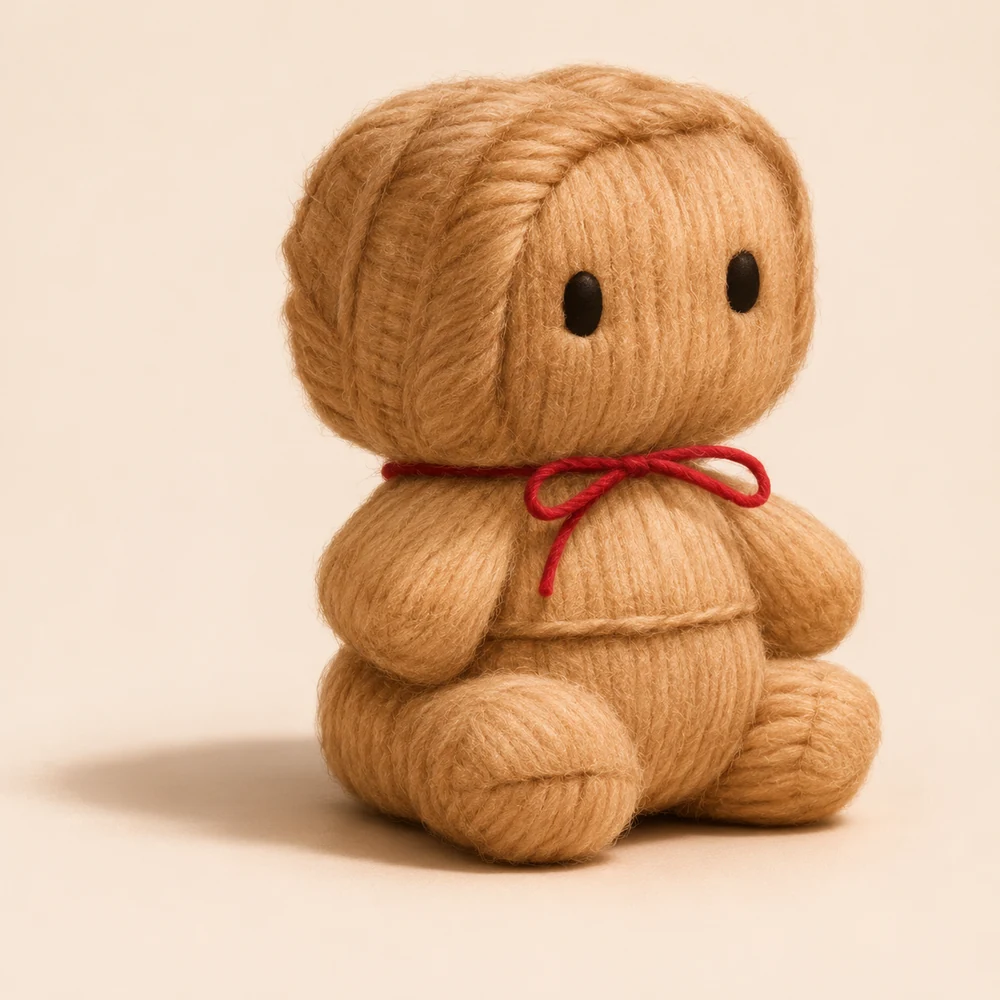
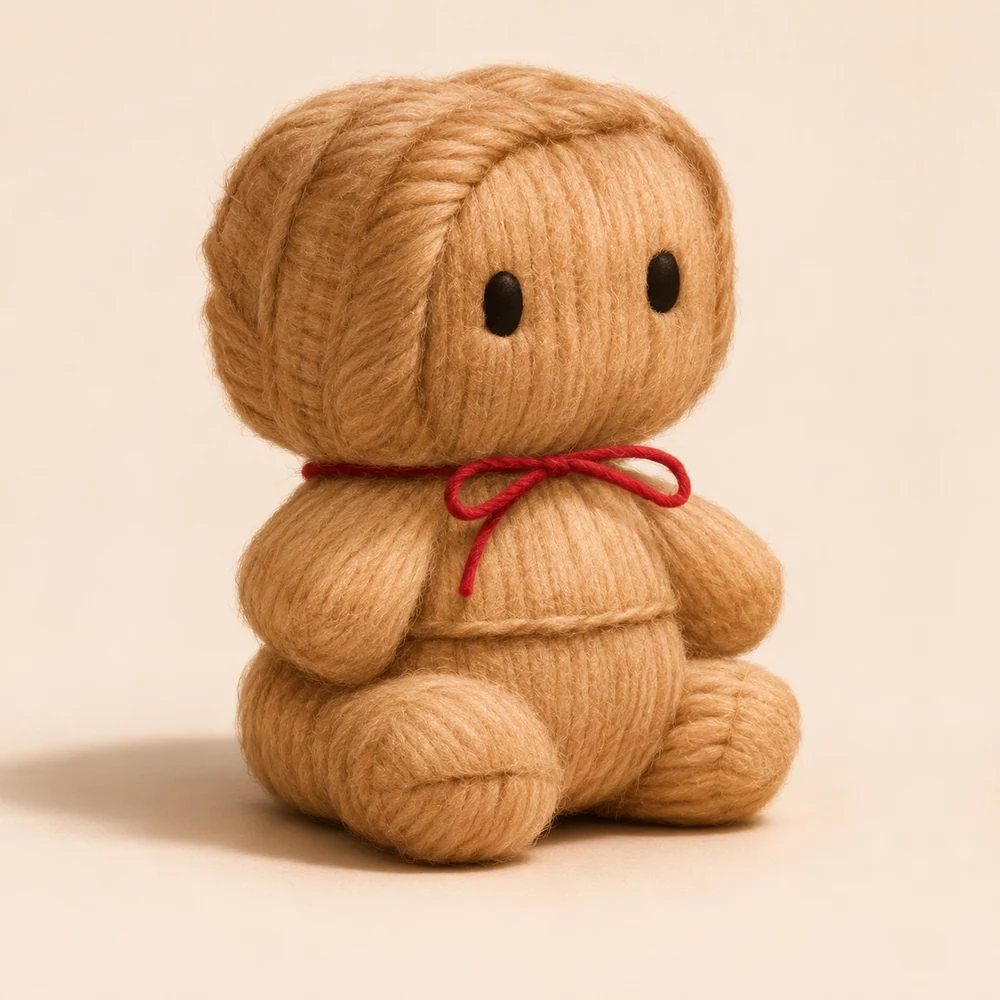
Shop: centre the plush; sticker set with 機内用品
Claude-Session: https://claude.ai/code/session_013w5yMdZKv437No8p47gv7E

diff --git a/okinawa/index.html b/okinawa/index.html
@@ -646,7 +646,7 @@ if("IntersectionObserver" in window)new IntersectionObserver(function(es){es.for
   <section class="sec" id="shop"><div class="sec-k">Duty-free · 免税店</div><h2>The in-flight shop<small>Coming soon</small></h2>
     <p class="sec-lede">One-way souvenirs from every channel on the album. Codes match the Duty Free order form in the print edition. Nothing is for sale yet: follow us to hear first when the shop opens.</p>
     <button type="button" class="notify top" data-land>Notify me when we land <i aria-hidden="true">→</i></button>
-    <div class="shop-feat"><article class="item feat flag"><div class="ph full"><img src="shop/df-vinyl.webp" alt="Okinawa.. One Way… vinyl LP leaning against its album sleeve" loading="lazy" width="1000" height="1000"><span class="soon">Coming soon</span></div><div class="t"><span class="k">DF-01 · Vinyl · Flagship</span><h3>Okinawa.. One Way… on vinyl</h3><p>All fourteen channels on one LP, in the original album sleeve. Drop the needle, fasten your seatbelt.</p></div></article><article class="item feat"><div class="ph full"><img src="shop/df-magazine.webp" alt="LAY-L AIR in-flight art publication with its belly band and boarding pass" loading="lazy" width="1000" height="1000"><span class="soon">Coming soon</span></div><div class="t"><span class="k">DF-02 · Print · Edition of 1000</span><h3>LAY-L AIR, the in-flight art publication</h3><p>The print edition of this magazine: 120 pages, numbered, with a boarding pass under the belly band.</p></div></article></div><div class="shop-grid"><article class="item"><div class="ph full"><img src="shop/df-mug.webp?v=3" alt="Cream ceramic LAY-L AIR mug with a red rim, a plane and a red livery stripe" loading="lazy" width="1000" height="1000"><span class="soon">Coming soon</span></div><div class="t"><span class="k">DF-03 · Mug</span><h3>Red Rim Mug</h3><p>Ceramic, 330 ml, with a red rim and the LAY-L AIR livery. For the tea you drink alone.</p></div></article><article class="item"><div class="ph full"><img src="shop/df-pins.webp?v=4" alt="Three enamel pins, a red plane, a pink sakura and a gold cricket, on a LAY-L AIR backing card" loading="lazy" width="1000" height="1000"><span class="soon">Coming soon</span></div><div class="t"><span class="k">DF-04 · Pin set</span><h3>Channel Pins</h3><p>Three enamel pins on a LAY-L AIR card: a plane, a sakura blossom and a cricket.</p></div></article><article class="item"><div class="ph full"><img src="shop/df-keychain.webp?v=2" alt="Corked glass vial keychain holding a rolled sakura-stamped fortune tied with red cord, on a gold chain with a red tassel" loading="lazy" width="1000" height="1000"><span class="soon">Coming soon</span></div><div class="t"><span class="k">DF-05 · Keychain</span><h3>Omikuji Keychain</h3><p>A fortune slip sealed in a glass vial, with a red tassel. Never unfold it.</p></div></article><article class="item"><div class="ph full"><img src="shop/df-plush.webp?v=2" alt="Soft yarn voodoo doll plush with a red thread bow at its neck" loading="lazy" width="1000" height="1000"><span class="soon">Coming soon</span></div><div class="t"><span class="k">DF-06 · Plush</span><h3>Voodoo Doll Plush</h3><p>Stitched by hand, tied with red thread. Pins not included.</p></div></article><article class="item"><div class="ph full"><img src="shop/df-teaset.webp?v=2" alt="Crackle-glaze sakura teapot and two cups on a wooden tray" loading="lazy" width="1000" height="1000"><span class="soon">Coming soon</span></div><div class="t"><span class="k">DF-07 · Tea set</span><h3>Sakura Tea Set</h3><p>A teapot and two cups on a wooden tray. Breakfast, for two.</p></div></article><article class="item"><div class="ph full"><img src="shop/df-tshirt.webp?v=3" alt="Cream T-shirt printed with LAY-L AIR, Okinawa.. One Way… and In-flight goods across the chest" loading="lazy" width="1000" height="1000"><span class="soon">Coming soon</span></div><div class="t"><span class="k">DF-08 · T-shirt</span><h3>LAY-L AIR Crew Tee</h3><p>Cream cotton with the LAY-L AIR livery across the chest. One way only.</p></div></article><article class="item"><div class="ph full"><img src="shop/df-magnet.webp?v=4" alt="Refrigerator-shaped magnet wrapped in a red bow, in its LAY-L AIR blister card" loading="lazy" width="1000" height="1000"><span class="soon">Coming soon</span></div><div class="t"><span class="k">DF-09 · Magnet</span><h3>Refrigerator Magnet</h3><p>A fridge, gift-wrapped in a red bow. For your fridge.</p></div></article><article class="item"><div class="ph full"><img src="shop/df-stickers-stamps.webp?v=5" alt="LAY-L AIR stamp sticker set: fourteen postage-stamp stickers in a clear sleeve with an airline header card" loading="lazy" width="1000" height="1000"><span class="soon">Coming soon</span></div><div class="t"><span class="k">DF-10 · Stickers · 14 pcs</span><h3>Stamp Sticker Set</h3><p>Fourteen postage-stamp stickers, one for every channel, in a LAY-L AIR sleeve.</p></div></article></div>
+    <div class="shop-feat"><article class="item feat flag"><div class="ph full"><img src="shop/df-vinyl.webp" alt="Okinawa.. One Way… vinyl LP leaning against its album sleeve" loading="lazy" width="1000" height="1000"><span class="soon">Coming soon</span></div><div class="t"><span class="k">DF-01 · Vinyl · Flagship</span><h3>Okinawa.. One Way… on vinyl</h3><p>All fourteen channels on one LP, in the original album sleeve. Drop the needle, fasten your seatbelt.</p></div></article><article class="item feat"><div class="ph full"><img src="shop/df-magazine.webp" alt="LAY-L AIR in-flight art publication with its belly band and boarding pass" loading="lazy" width="1000" height="1000"><span class="soon">Coming soon</span></div><div class="t"><span class="k">DF-02 · Print · Edition of 1000</span><h3>LAY-L AIR, the in-flight art publication</h3><p>The print edition of this magazine: 120 pages, numbered, with a boarding pass under the belly band.</p></div></article></div><div class="shop-grid"><article class="item"><div class="ph full"><img src="shop/df-mug.webp?v=3" alt="Cream ceramic LAY-L AIR mug with a red rim, a plane and a red livery stripe" loading="lazy" width="1000" height="1000"><span class="soon">Coming soon</span></div><div class="t"><span class="k">DF-03 · Mug</span><h3>Red Rim Mug</h3><p>Ceramic, 330 ml, with a red rim and the LAY-L AIR livery. For the tea you drink alone.</p></div></article><article class="item"><div class="ph full"><img src="shop/df-pins.webp?v=4" alt="Three enamel pins, a red plane, a pink sakura and a gold cricket, on a LAY-L AIR backing card" loading="lazy" width="1000" height="1000"><span class="soon">Coming soon</span></div><div class="t"><span class="k">DF-04 · Pin set</span><h3>Channel Pins</h3><p>Three enamel pins on a LAY-L AIR card: a plane, a sakura blossom and a cricket.</p></div></article><article class="item"><div class="ph full"><img src="shop/df-keychain.webp?v=2" alt="Corked glass vial keychain holding a rolled sakura-stamped fortune tied with red cord, on a gold chain with a red tassel" loading="lazy" width="1000" height="1000"><span class="soon">Coming soon</span></div><div class="t"><span class="k">DF-05 · Keychain</span><h3>Omikuji Keychain</h3><p>A fortune slip sealed in a glass vial, with a red tassel. Never unfold it.</p></div></article><article class="item"><div class="ph full"><img src="shop/df-plush.webp?v=3" alt="Soft yarn voodoo doll plush with a red thread bow at its neck" loading="lazy" width="1000" height="1000"><span class="soon">Coming soon</span></div><div class="t"><span class="k">DF-06 · Plush</span><h3>Voodoo Doll Plush</h3><p>Stitched by hand, tied with red thread. Pins not included.</p></div></article><article class="item"><div class="ph full"><img src="shop/df-teaset.webp?v=2" alt="Crackle-glaze sakura teapot and two cups on a wooden tray" loading="lazy" width="1000" height="1000"><span class="soon">Coming soon</span></div><div class="t"><span class="k">DF-07 · Tea set</span><h3>Sakura Tea Set</h3><p>A teapot and two cups on a wooden tray. Breakfast, for two.</p></div></article><article class="item"><div class="ph full"><img src="shop/df-tshirt.webp?v=3" alt="Cream T-shirt printed with LAY-L AIR, Okinawa.. One Way… and In-flight goods across the chest" loading="lazy" width="1000" height="1000"><span class="soon">Coming soon</span></div><div class="t"><span class="k">DF-08 · T-shirt</span><h3>LAY-L AIR Crew Tee</h3><p>Cream cotton with the LAY-L AIR livery across the chest. One way only.</p></div></article><article class="item"><div class="ph full"><img src="shop/df-magnet.webp?v=4" alt="Refrigerator-shaped magnet wrapped in a red bow, in its LAY-L AIR blister card" loading="lazy" width="1000" height="1000"><span class="soon">Coming soon</span></div><div class="t"><span class="k">DF-09 · Magnet</span><h3>Refrigerator Magnet</h3><p>A fridge, gift-wrapped in a red bow. For your fridge.</p></div></article><article class="item"><div class="ph full"><img src="shop/df-stickers-stamps.webp?v=6" style="position:absolute;inset:0;object-position:50% 16%" alt="LAY-L AIR stamp sticker set: fourteen postage-stamp stickers in a clear sleeve with an airline header card" loading="lazy" width="1122" height="1402"><span class="soon">Coming soon</span></div><div class="t"><span class="k">DF-10 · Stickers · 14 pcs</span><h3>Stamp Sticker Set</h3><p>Fourteen postage-stamp stickers, one for every channel, in a LAY-L AIR sleeve.</p></div></article></div>
   </section>
   <dialog class="land" id="land" aria-labelledby="land-h"><button type="button" class="x" data-close aria-label="Close">✕</button>
     <div class="plist"><div class="pl-main"><span class="pl-k">Duty-free · 免税店</span><h2 class="pl-h" id="land-h">Notify me when we land</h2>
